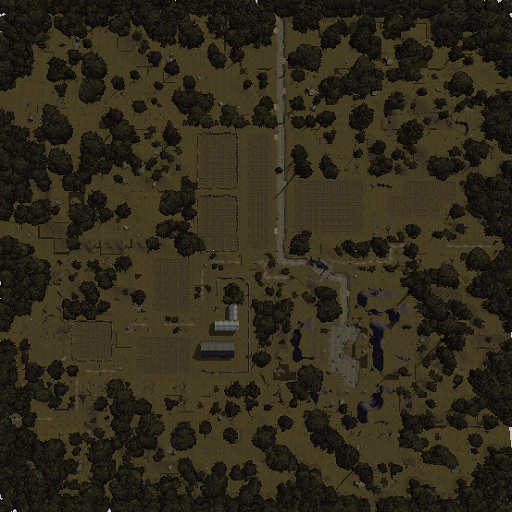
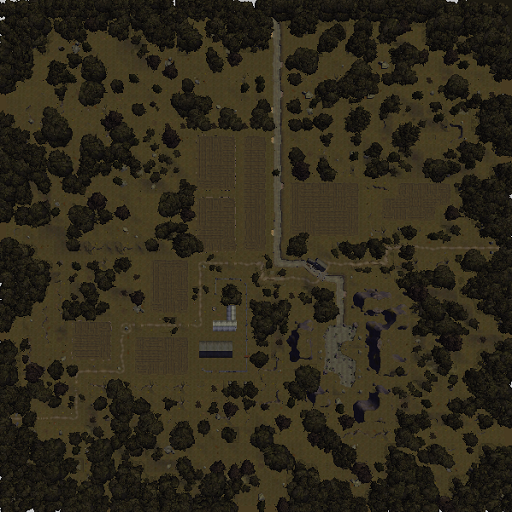
210424

diff --git a/common.js b/common.js
@@ -18,9 +18,9 @@ var map = {
         '0map',          '0map',          '0map',        '0map',        '0map',        '0map',            '0map',           '0map',            '0map',            '0map',            '0map',            '0map',            '0map',            '0map',            '0map',            '0map',            '0map',            '0map',            '0map',            '0map',           '0map',        '0map',        'TorArcanaFw', 'TorArcana',   'TorArcanaFe', '0map',     
         't_zazesspur_nw','t_zazesspur_ne','0map',        '0map',        '0map',        '0map',            '0map',           '0map',            '0map',            '0map',            '0map',            '0map',            '0map',            '0map',            '0map',            '0map',            '0map',            '0map',            '0map',            '0map',           '0map',        '0map',        'TorArcanaFsw','TorArcanaFs', 'TorArcanaFse','0map',   
         't_zazesspur_sw','t_zazesspur_se','t_venazir_ne','SulZaz2',     '0map',        '0map',            't_tethyrcast_nw','t_tethyrcast_n',  't_tethyrcast_ne', 'SuldusBard1',     '0map',            'IthmonSulW',      't_hostim_quay',   'IthmonSulE',      'IthmonSulE1',     'IthmonSulE2',     't_grannox',       't_grannox_farms', 't_lhestynheart',  't_freelm_farms', 't_freelmanse','0map',        'VarythPlainW','VarythPlainC','0map',        '0map',
-        't_venazir_sw',  't_venazir_s',   't_venazir_se','SulZaz3',     'SulZaz4',     'SulZaz5',         't_tethyrcast_w', 't_tethyrcast',    't_tethyrcast_e',  'SuldusBard2',     'SuldusBard3',     'SuldusBard4',     't_hostim',        '0map',            '0map',            '0map',            't_lhest_gorge',            'LhestynFsw',      'LhestynFs',       'LhestynFse',     'RvrShrHillN', 'RvrShrHillNE','VarythHillNW','0map',        '0map',        '0map', 
-        '0map',          '0map',          'OldKingRoad1','OldKingRoad2','OldKingRoad3','OldKingRoad4',    't_tethyrcast_sw','t_tethyrcast_s',  't_tethyrcast_se', '0map',            '0map',            '0map',            't_hostim_road',   '0map',            '0map',            '0map',            'QonsirFw',        'QonsirFe',        'LhestynRd',       'RvrShrHillW',    'RvrShrHill',  'StOstus',     'VarythHillSW','0map',        '0map',        '0map', 
-        '0map',          '0map',          '0map',        '0map',        '0map',        't_sahark_crossrd','t_saharkhan',    't_bardshy_itr_1', 't_bardshyr_lorik','t_bardshy_itr_3', 't_bardshy_itr_4', 't_ithmon_ithr_w1','t_ithmon_ithr_w2','t_ithmon_lorcros','t_ithmon_ithr_e1','t_ithmon_ithr_e2','RvrShr_IthalRd',  't_crownfarms_nw', 't_crownfarms_n',  't_crownfarms_ne','RvrShrHillS', 'RvrShrHillSE','0map',        '0map',        '0map',        '0map', 
+        't_venazir_sw',  't_venazir_s',   't_venazir_se','SulZaz3',     'SulZaz4',     'SulZaz5',         't_tethyrcast_w', 't_tethyrcast',    't_tethyrcast_e',  'SuldusBard2',     'SuldusBard3',     'SuldusBard4',     't_hostim',        '0map',            '0map',            '0map',            't_lhest_gorge',   'LhestynFsw',      'LhestynFs',       'LhestynFse',     'RvrShrHillN', 'RvrShrHillNE','VarythHillNW','0map',        '0map',        '0map', 
+        '0map',          '0map',          'OldKingRoad1','OldKingRoad2','OldKingRoad3','OldKingRoad4',    't_tethyrcast_sw','t_tethyrcast_s',  't_tethyrcast_se', '0map',            '0map',            '0map',            't_hostim_road',   '0map',            '0map',            '0map',            't_qonsir',        't_qonsir_farm',   'LhestynRd',       'RvrShrHillW',    'RvrShrHill',  'StOstus',     'VarythHillSW','0map',        '0map',        '0map', 
+        '0map',          '0map',          '0map',        '0map',        '0map',        't_sahark_crossrd','t_saharkhan',    't_bardshy_itr_1', 't_bardshyr_lorik','t_bardshy_itr_3', 't_bardshy_itr_4', 't_ithmon_ithr_w1','t_ithmon_ithr_w2','t_ithmon_lorcros','t_ithmon_ithr_e1','t_ithmon_ithr_e2','t_rvrshr_ithrdw', 't_crownfarms_nw', 't_crownfarms_n',  't_crownfarms_ne','RvrShrHillS', 'RvrShrHillSE','0map',        '0map',        '0map',        '0map', 
         '0map',          '0map',          '0map',        '0map',        '0map',        'SoldiersRoad1',   '0map',           '0map',            '0map',            '0map',            '0map',            '0map',            't_ithmon_farm_nw','t_ithmon_farm_n', 't_ithmon_farm_ne','t_loransewood_n', 't_crownfarms_iw2','t_crownfarms_iw1','t_darromar',      '0map',           '0map',        '0map',        '0map',        '0map',        '0map',        '0map', 
         '0map',          '0map',          '0map',        '0map',        '0map',        'SoldiersRoad2',   '0map',           '0map',            '0map',            '0map',            '0map',            '0map',            't_ithmon_farm_w', 't_ithmon_loranse','t_ithmon_farm_e', 't_loransewood_s', 't_ruba',          't_clov_fld_nw',   't_clov_fld_itr_n','0map',           '0map',        '0map',        '0map',        '0map',        '0map',        '0map', 
         '0map',          '0map',          '0map',        '0map',        '0map',        'SoldiersRoad3',   '0map',           '0map',            '0map',            '0map',            '0map',            '0map',            '0map',            '0map',            '0map',            '0map',            '0map',            '0map',            't_clov_fld_itr_s','0map',           '0map',        '0map',        '0map',        '0map',        '0map',        '0map',
